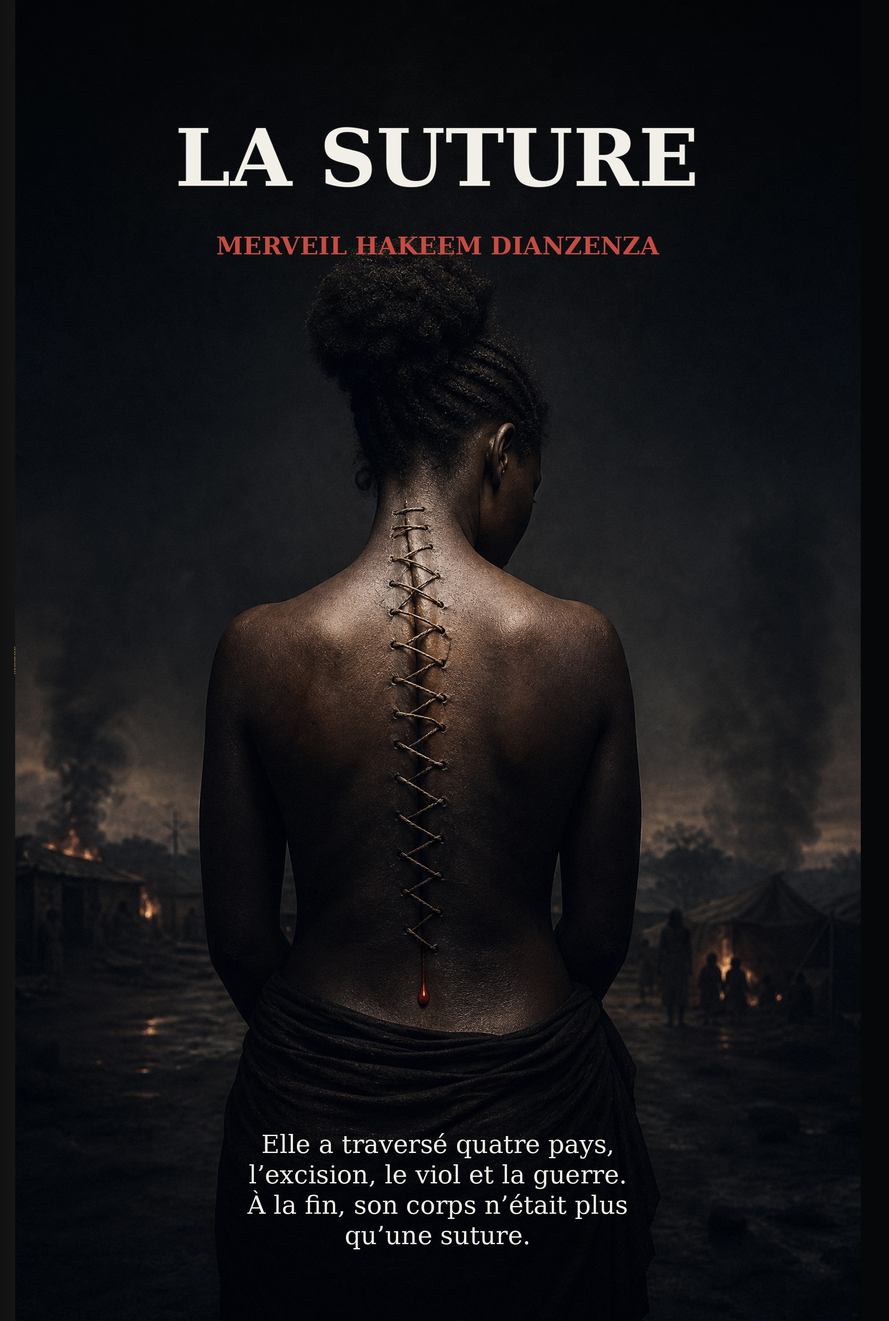
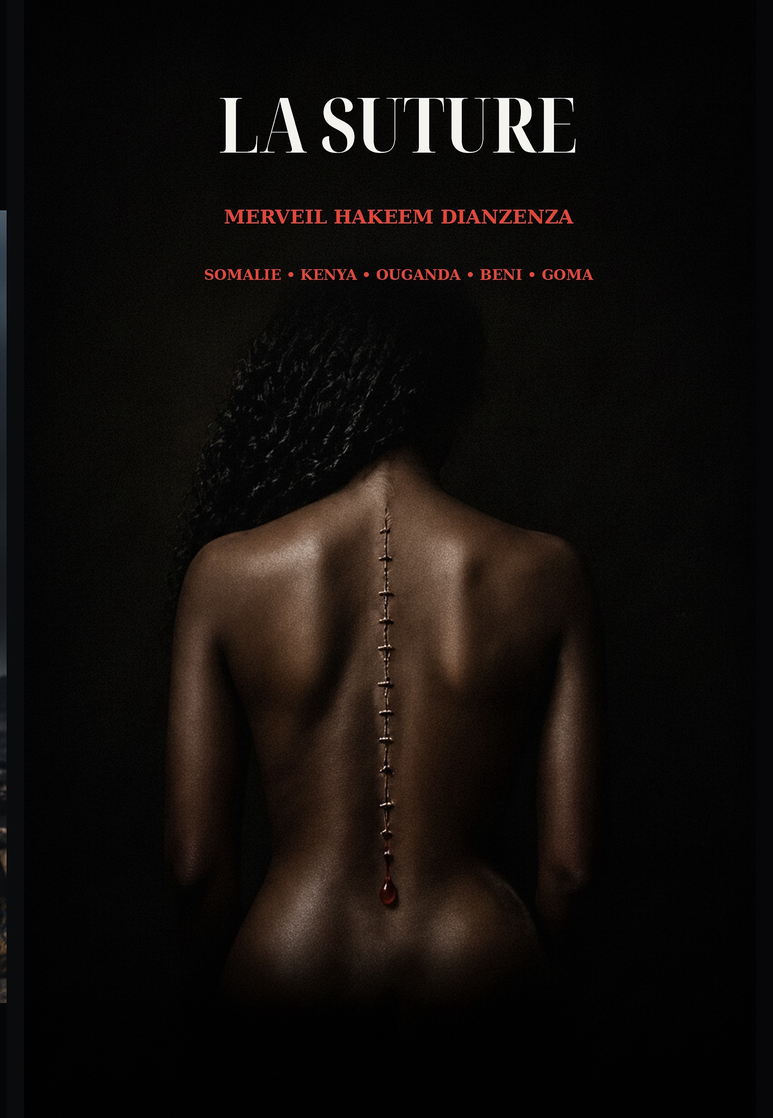
Replace La Suture cover, fix hyphenation breaks sitewide, enrich book copy
- Replace la_suture_cover.jpg with new cover art (bare back, suture scar,
  "SOMALIE · KENYA · OUGANDA · BENI · GOMA" locations)
- Add hyphens:none to index.html body — it was the one page not loading
  style-shared.css, so words like "Éditoriale"/"Afrofuturiste" could still
  break with a hyphen (the "Ia" artifact reported earlier)
- Add the same hyphens:none fix to the remaining orphan pages without
  style-shared.css: mentions-legales.html, communique-papa-masambukidi.html,
  nouveau-site.html, prix-litteraires-backup.html, prix-merci.html
- la-suture.html: weave the cover's real locations (Somalie, Kenya, Ouganda,
  Beni, Goma) into the synopsis, hero chips, and meta keywords

Claude-Session: https://claude.ai/code/session_01CA5ykfMQKcZ95bG7sKrDVP

diff --git a/la-suture.html b/la-suture.html
@@ -5,7 +5,7 @@
   <meta name="robots" content="index, follow, max-snippet:-1, max-image-preview:large, max-video-preview:-1">
   <meta name="viewport" content="width=device-width, initial-scale=1.0">
   <meta name="description" content="La Suture — roman de Merveil Hakeem Dianzenza. Elle a traversé quatre pays, l'excision, le viol et la guerre. Un roman sans détour sur la violence faite aux femmes en temps de conflit. Disponible sur Amazon.">
-  <meta name="keywords" content="La Suture, Merveil Hakeem Dianzenza, roman africain, violence faite aux femmes, Hakvision Éditions, littérature congolaise, afrofuturisme, Amazon">
+  <meta name="keywords" content="La Suture, Merveil Hakeem Dianzenza, roman africain, violence faite aux femmes, Hakvision Éditions, littérature congolaise, afrofuturisme, Somalie, Kenya, Ouganda, Beni, Goma, Amazon">
   <meta name="author" content="Merveil Hakeem Dianzenza">
   <link rel="canonical" href="https://hakvision243.netlify.app/la-suture.html">
   <meta property="og:type" content="book">
@@ -207,6 +207,7 @@
             <div class="chip"><i class="fa-solid fa-globe-africa"></i> Roman africain</div>
             <div class="chip"><i class="fa-brands fa-amazon"></i> Disponible sur Amazon</div>
           </div>
+          <p style="margin-top:14px; font-size:.72rem; letter-spacing:.12em; text-transform:uppercase; color:#b8952a; font-weight:600;">Somalie · Kenya · Ouganda · Beni · Goma</p>
           <div class="cta-group" style="margin-top:22px;">
             <a class="btn primary" href="https://www.amazon.fr/Suture-M-Merveil-Hakeem-Dianzenza/dp/B0HH8VR7R7" target="_blank" rel="noopener">
               <i class="fab fa-amazon"></i> Acheter sur Amazon
@@ -232,7 +233,7 @@
         <div class="content-panel">
           <div class="pill-tag"><i class="fa-solid fa-feather-pointed"></i> Synopsis</div>
           <h4>Une femme. Quatre pays. Une seule blessure.</h4>
-          <p>Elle n'a pas de nom au début. Elle est <strong style="color:#b8952a;">femme</strong>, et c'est déjà un destin dans un monde en guerre. Elle traverse des frontières qui n'existent que pour ceux qui ont le droit de les franchir. Elle survit à l'excision imposée par la tradition, au viol de guerre comme arme de destruction, à l'exil comme condition permanente.</p>
+          <p>Elle n'a pas de nom au début. Elle est <strong style="color:#b8952a;">femme</strong>, et c'est déjà un destin dans un monde en guerre. De la <strong style="color:#b8952a;">Somalie</strong> au <strong style="color:#b8952a;">Kenya</strong>, de l'<strong style="color:#b8952a;">Ouganda</strong> à <strong style="color:#b8952a;">Beni</strong> et <strong style="color:#b8952a;">Goma</strong>, elle traverse des frontières qui n'existent que pour ceux qui ont le droit de les franchir. Elle survit à l'excision imposée par la tradition, au viol de guerre comme arme de destruction, à l'exil comme condition permanente.</p>
           <p style="margin-top:14px;">Mais à la fin, ce qui reste d'elle n'est pas une ruine. C'est une <strong style="color:#b8952a;">suture</strong> — la marque de ce qui a été recousu, de ce qui refuse de céder. Merveil Hakeem Dianzenza signe ici un roman sans concession, ancré dans des réalités que la littérature africaine affronte trop rarement.</p>
           <p style="margin-top:14px; color:#9a8e7e; font-weight:300;">Un livre nécessaire, qui place la question des femmes en temps de conflit au centre du débat littéraire africain contemporain.</p>
         </div>

diff --git a/mentions-legales.html b/mentions-legales.html
@@ -22,7 +22,7 @@
       --font-sans: 'Inter', system-ui, sans-serif;
     }
     html { scroll-behavior: smooth; }
-    body { font-family: var(--font-sans); background: var(--dark); color: var(--text); line-height: 1.7; }
+    body { font-family: var(--font-sans); background: var(--dark); color: var(--text); line-height: 1.7; hyphens: none; -webkit-hyphens: none; -ms-hyphens: none; }
     a { color: var(--gold); text-decoration: none; }
     a:hover { text-decoration: underline; }
 

diff --git a/nouveau-site.html b/nouveau-site.html
@@ -28,6 +28,9 @@
                   radial-gradient(circle at 80% 0%, rgba(0,204,255,0.08), transparent 20%),
                   var(--bg);
       color: var(--text);
+      hyphens: none;
+      -webkit-hyphens: none;
+      -ms-hyphens: none;
       line-height: 1.6;
       min-height: 100vh;
     }

diff --git a/index.html b/index.html
@@ -127,6 +127,9 @@
       color: var(--text);
       overflow-x: hidden;
       -webkit-font-smoothing: antialiased;
+      hyphens: none;
+      -webkit-hyphens: none;
+      -ms-hyphens: none;
     }
 
     a { color: inherit; text-decoration: none; }

diff --git a/prix-merci.html b/prix-merci.html
@@ -25,6 +25,9 @@
       display: flex;
       align-items: center;
       justify-content: center;
+      hyphens: none;
+      -webkit-hyphens: none;
+      -ms-hyphens: none;
       color: #fff;
       overflow-x: hidden;
       position: relative;

diff --git a/prix-litteraires-backup.html b/prix-litteraires-backup.html
@@ -83,6 +83,9 @@
       color: #fff;
       line-height: 1.6;
       overflow-x: hidden;
+      hyphens: none;
+      -webkit-hyphens: none;
+      -ms-hyphens: none;
     }
 
     /* Hero Header - Ultra Premium */

diff --git a/communique-papa-masambukidi.html b/communique-papa-masambukidi.html
@@ -19,6 +19,9 @@
       background: #fff;
       color: #333;
       line-height: 1.6;
+      hyphens: none;
+      -webkit-hyphens: none;
+      -ms-hyphens: none;
     }
 
     .press-release {
